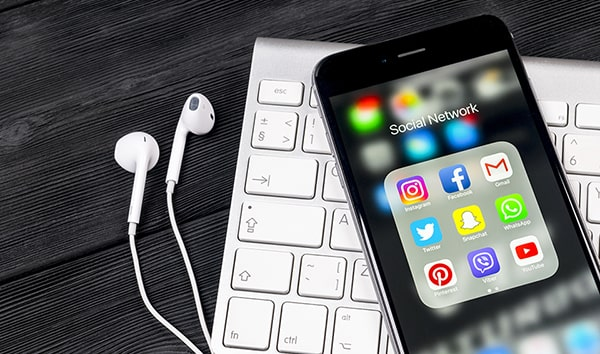
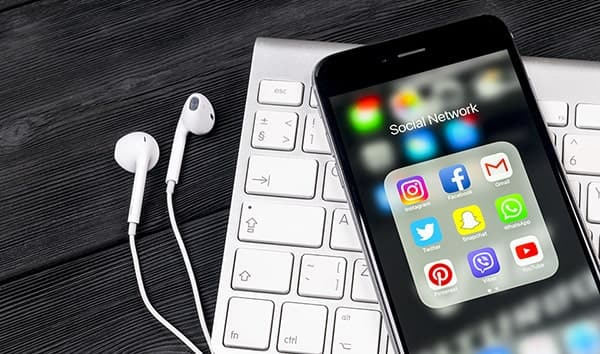
compress img, purgeCSS

diff --git a/assets/css/tailwind.css b/assets/css/tailwind.css
@@ -1,8 +1,17 @@
-@import url('https://fonts.googleapis.com/css2?family=Dosis:wght@400;500;600&display=swap');
-@import url('https://fonts.googleapis.com/css2?family=Signika:wght@300;400;600;700&family=Yeseva+One&display=swap');
-@import 'tailwindcss/base';
-@import 'tailwindcss/components';
+/* purgecss start ignore */
+@tailwind base;
+
+/* purgecss end ignore */
+@tailwind components;
+@import url('https://fonts.googleapis.com/css2?family=Fira+Sans:ital,wght@0,700;1,500&display=swap');
+
 @import 'tailwindcss/utilities';
+
+
+h1, h3 {
+  font-family: 'Fira Sans', sans-serif;  
+  font-weight: 700;
+}
 
 .content > p {
     text-align: justify;

diff --git a/components/Blog.vue b/components/Blog.vue
@@ -7,7 +7,7 @@
       <li v-for="blogPost in blogPosts" :key="blogPost.blog" class="mt-8">
         <nuxt-link :to="'/' + blogPost.slug">
           <v-lazy-image :src="blogPost.img" alt="article image"></v-lazy-image>
-          <h1 class="font-title font-bold text-2xl mt-2 mb-2">
+          <h1 class="font-title font-bold text-xl md:text-2xl mt-2 mb-2">
             {{ blogPost.title }}
           </h1>
           <div class="font-dosis text-gray-700 sm:text-xl">

diff --git a/tailwind.config.js b/tailwind.config.js
@@ -50,12 +50,15 @@ module.exports = {
         '192': '50rem'
       },
       fontFamily: {
-        'title': ['Signika', 'sans-serif'],
         'dosis': ['Dosis', 'sans-serif']
       },
       minWidth: {
         'maxcontent': 'max-content'
       }
+    },
+    purge: {
+      enabled: true,
+      content: ['./src/**/*.vue'],
     },
     variants: {},
     plugins: []
